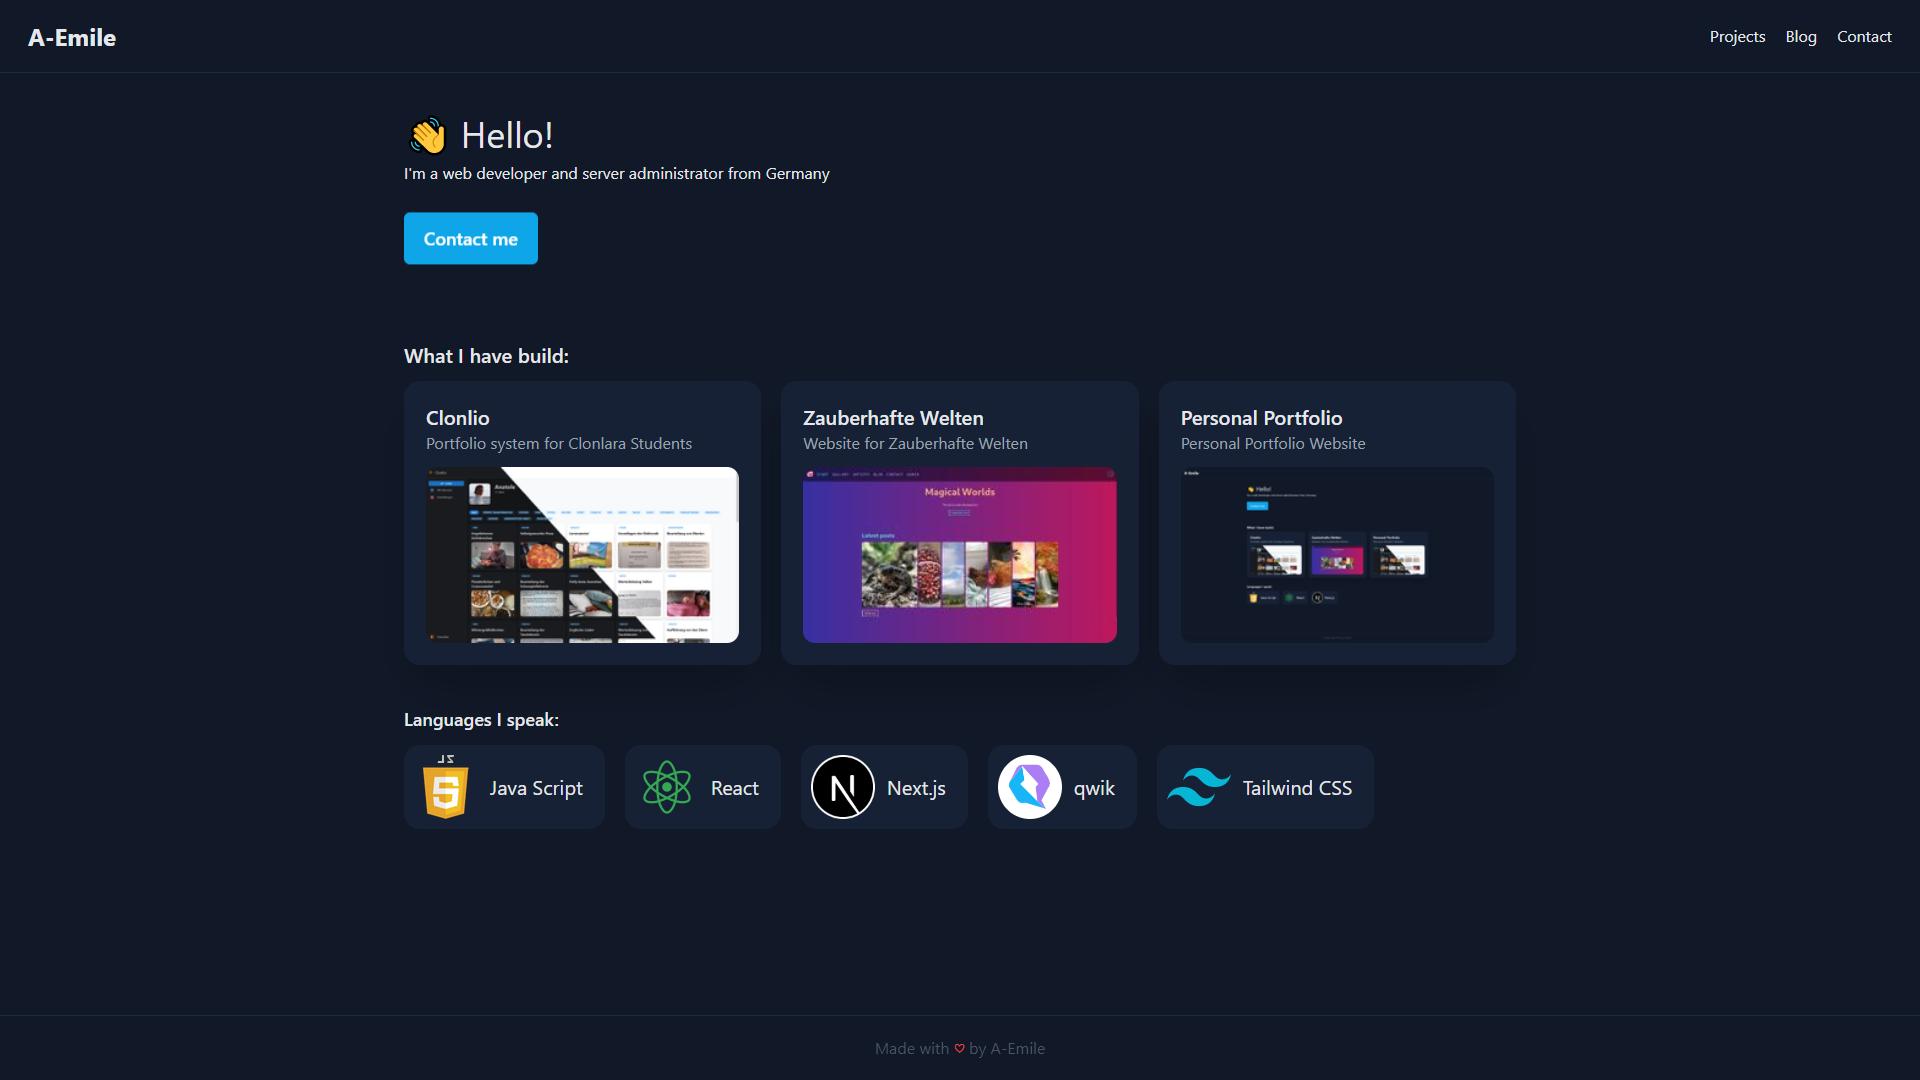
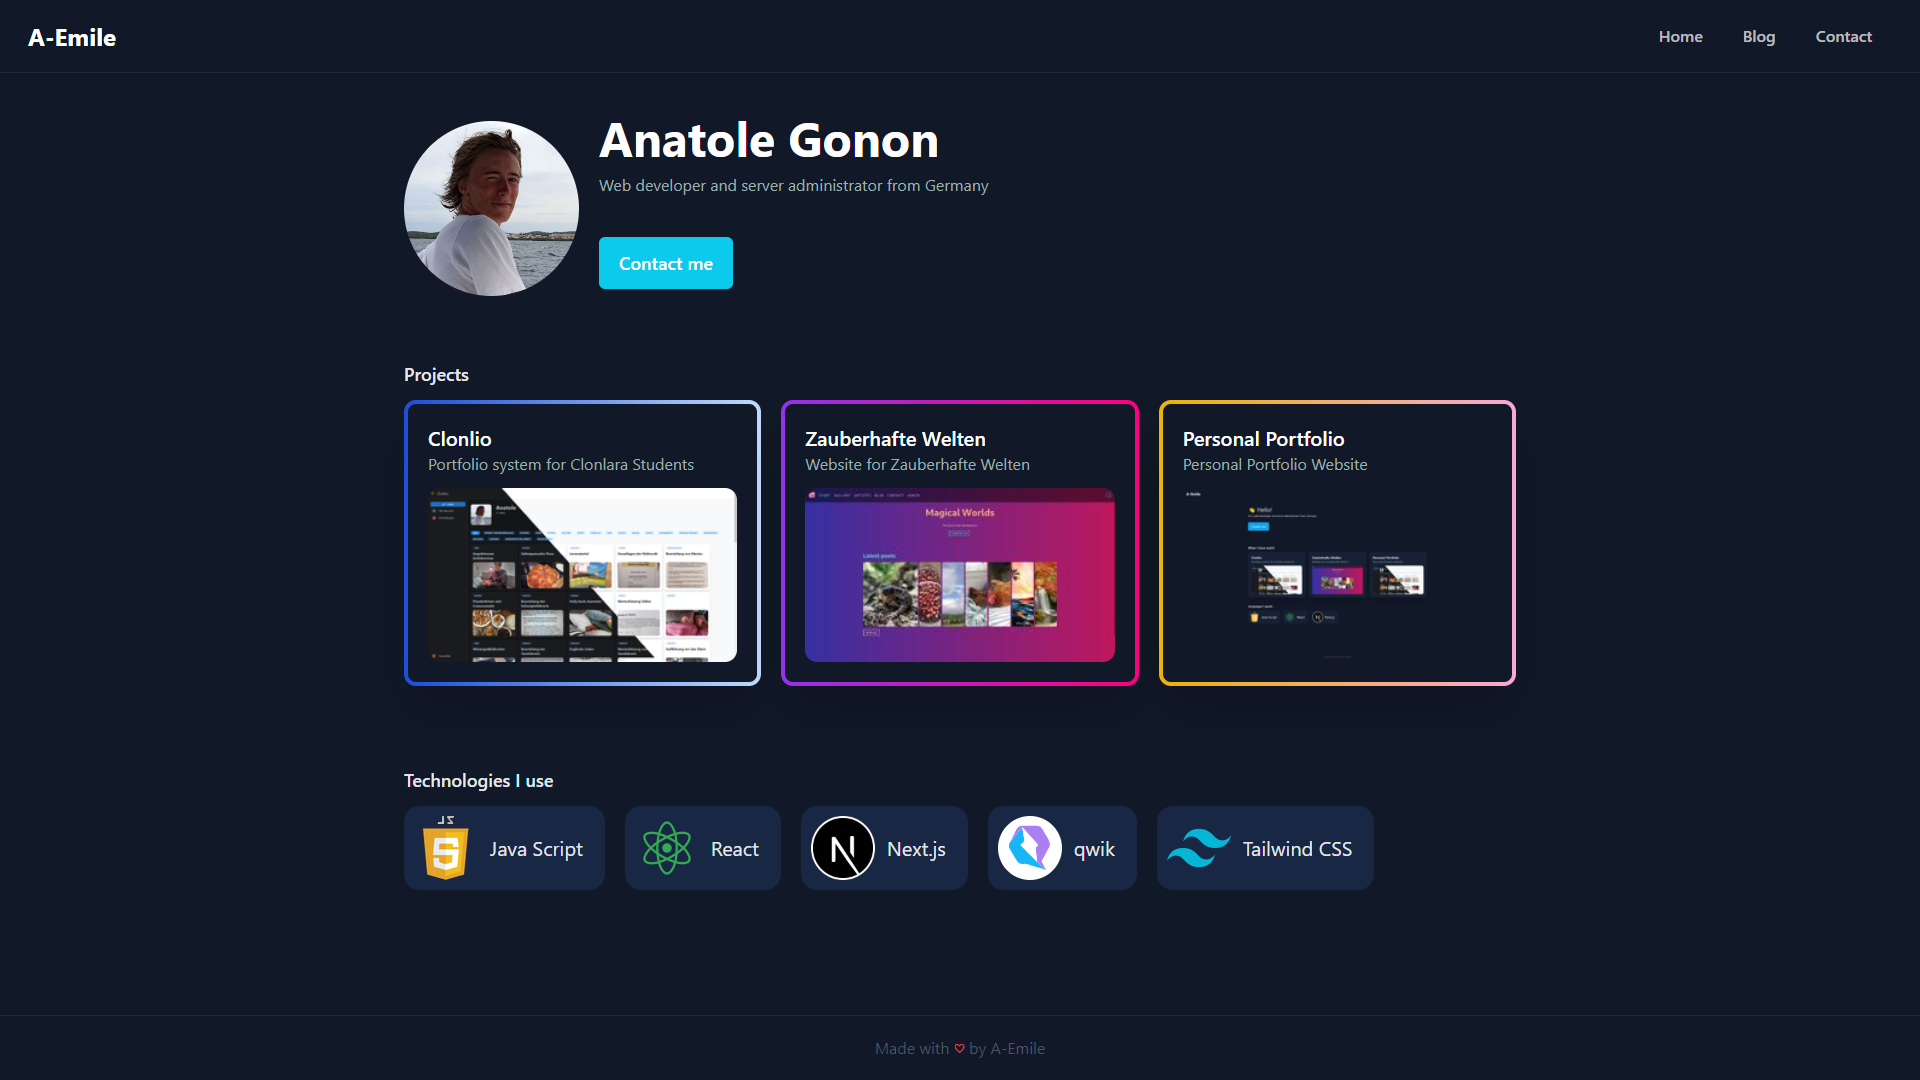
Improved accessibility

diff --git a/src/components/header/header.tsx b/src/components/header/header.tsx
@@ -6,7 +6,7 @@ export default component$(() => {
   })
   return (
     <header>
-      <nav className='p-5 border-b items-center px-7 border-gray-800 flex'>
+      <nav className='p-5 border-b items-center px-7 border-back2 flex max-w-6xl m-auto'>
         <a href='/'><h1 className='font-bold text-2xl'>A-Emile</h1></a>
         <div className='flex-grow justify-start' />
         <button className={`z-20 sm:hidden flex flex-col gap-2 relative`} onClick$={() => store.menu = !store.menu}>
@@ -14,9 +14,9 @@ export default component$(() => {
           <div className={`w-6 h-0.5 transition-transform bg-gray-300 ${store.menu && `-rotate-45 -translate-y-[0.325rem]`}`} />
         </button>
         <div className={`nav-link flex transition-all -top-80 ${store.menu && "-top-0"} sm:-translate-y-0 bg-back2 flex-col sm:flex-row px-5 sm:px-0 gap-3 justify-center items-center h-screen absolute bg-scroll sm:bg-transparent z-10 sm:h-full right-0 left-0 sm:static ${!store.menu && "hidden sm:block"}`}>
-          <a className='hover:bg-opacity-5 py-2 bg-opacity-5 bg-white sm:bg-transparent transition-colors sm:mt-0 mt-20 w-full sm:w-auto text-center rounded-lg p-1 text-2xl sm:text-base font-semibold hover:bg-white px-5' href='/'>Home</a>
-          <a className='hover:bg-opacity-5 py-2 bg-opacity-5 bg-white sm:bg-transparent transition-colors w-full sm:w-auto text-center rounded-lg p-1 text-2xl sm:text-base font-semibold hover:bg-white px-5' href='/blog'>Blog</a>
-          <a className='hover:bg-opacity-5 py-2 bg-opacity-5 bg-white sm:bg-transparent transition-colors w-full sm:w-auto text-center rounded-lg p-1 text-2xl sm:text-base font-semibold hover:bg-white px-5' href='/contact'>Contact</a>
+          <a className='hover:bg-opacity-5 hover:shadow py-2 bg-opacity-5 bg-sky-300 sm:bg-transparent transition-colors sm:mt-0 mt-20 w-full sm:w-auto text-center rounded-lg p-1 text-2xl sm:text-base font-semibold hover:bg-sky-300 px-5' href='/'>Home</a>
+          <a className='hover:bg-opacity-5 hover:shadow py-2 bg-opacity-5 bg-sky-300 sm:bg-transparent transition-colors w-full sm:w-auto text-center rounded-lg p-1 text-2xl sm:text-base font-semibold hover:bg-sky-300 px-5' href='/blog'>Blog</a>
+          <a className='hover:bg-opacity-5 hover:shadow py-2 bg-opacity-5 bg-sky-300 sm:bg-transparent transition-colors w-full sm:w-auto text-center rounded-lg p-1 text-2xl sm:text-base font-semibold hover:bg-sky-300 px-5' href='/contact'>Contact</a>
         </div>
       </nav>
     </header>

diff --git a/src/routes/contact/index.tsx b/src/routes/contact/index.tsx
@@ -43,8 +43,8 @@ export default component$(() => {
 
     });
     return (
-        <>
-            <div onSubmit$={(e) => console.log(e)} className={`max-w-6xl pt-10 rounded-xl sm:mx-auto mx-5 flex flex-col gap-5 bg-back2 mt-10 p-5 m-auto animate__animated animate__fadeIn`}>
+        <div className="sm:px-3">
+            <div onSubmit$={(e) => console.log(e)} className={`max-w-6xl pt-10 rounded-xl mx-auto flex flex-col gap-5 sm:bg-back2 mt-10 p-5 m-auto animate__animated animate__fadeIn`}>
                 {state.success &&
                     <div className={`bg-green-500 -mt-5 bg-opacity-50 rounded p-5 text-lg items-center animate__animated flex animate__backInDown`}>
                         <p className="flex-grow">Message was send successfully</p>
@@ -54,11 +54,11 @@ export default component$(() => {
                 {!state.success &&
                     <>
                         <h1 className="text-3xl">💬 Contact</h1>
-                        <p className="text-gray-300">If you have any questions, feel free to send me message.</p>
+                        <p>If you have any questions, feel free to send me message.</p>
                         {state.error.length ? (
                             <div className="text-red-500">{state.error}</div>
                         ) : ""}
-                        <div className="w-full flex flex-col gap-5 max-w-sm">
+                        <div className="w-full flex flex-col gap-5 sm:max-w-sm">
                             <input onInput$={(event) => (state.name = (event.target as HTMLInputElement).value)} type="text" placeholder="Name" class="bg-transparent border-2 border-primary border-opacity-50 rounded" />
                             <input onInput$={(event) => (state.email = (event.target as HTMLInputElement).value)} type="email" placeholder="Email" class="bg-transparent border-2 border-primary border-opacity-50 rounded" />
                         </div>
@@ -66,7 +66,7 @@ export default component$(() => {
                         <Button onClick$={() => state.submit = true} text="Send" />
                     </>}
             </div>
-        </>
+        </div>
     )
 })
 

diff --git a/src/routes/index.tsx b/src/routes/index.tsx
@@ -8,7 +8,7 @@ export default component$(() => {
     <div className={`pt-10 max-w-6xl p-5 m-auto`}>
       <div className='mb-16 flex sm:flex-row flex-col gap-5'>
       <div>
-          <img width={175} className={"overflow-hidden rounded-full sm:w-[175px] w-20 mt-2"} src='/A-Emile.jpg'/>
+          <img alt='image of Anatole' width={175} height={175} className={"overflow-hidden rounded-full sm:w-[175px] w-20 mt-2"} src='/A-Emile.webp'/>
         </div>
         <div>
           <h1 className='sm:text-5xl text-3xl sm:mb-3 font-bold'>Anatole Gonon</h1>
@@ -19,7 +19,7 @@ export default component$(() => {
         </div>
       </div>
       <ProjectList />
-      <h3 className='text-lg mt-20 font-semibold mb-3'>Technologies I use</h3>
+      <h1 className='text-lg mt-20 font-semibold mb-3'>Technologies I use</h1>
       <div className='flex gap-5 w-full justify-start flex-wrap mb-5 animate__animated animate__fadeIn'>
         <BrandCard href='https://www.javascript.com/' name='Java Script' src='/icons/javascript.png' />
         <BrandCard href='https://reactjs.org/' name='React' src='/icons/react.png' />

diff --git a/src/components/blog/BlogCard.tsx b/src/components/blog/BlogCard.tsx
@@ -10,8 +10,8 @@ interface BlogCardProps {
 export const BlogCard = component$(({ ...props }: BlogCardProps) => (
     <li>
         <a href={props.href}>
-            <div className="flex bg-back2 p-2 gap-3 sm:gap-5 rounded-2xl hover:border-sky-900 overflow-hidden border-2 border-transparent">
-                <img width={240} height={160} className="sm:h-40 flex-none sm:w-60 h-20 w-32 object-cover rounded-xl" src={props.img} />
+            <div className="flex bg-back2 p-2 gap-3 sm:gap-5 rounded-2xl hover:border-primary overflow-hidden border-2 border-transparent">
+                <img alt="blog cover image" width={240} height={160} className="sm:h-40 flex-none sm:w-60 h-20 w-32 object-cover rounded-xl" src={props.img} />
                 <div>
                     <h1 className="text-md line-clamp-1 font-semibold sm:text-xl">{props.title}</h1>
                     <p className="line-clamp-2 sm:line-clamp-3 text-gray-400 text-sm sm:text-base ">{props.desc}</p>

diff --git a/src/components/Projects/ProjectList.tsx b/src/components/Projects/ProjectList.tsx
@@ -4,7 +4,7 @@ import { ProjectCard } from "./ProjectCard"
 export default component$(() => {
     return (
         <>
-            <h2 className="text-lg font-semibold mb-3">Projects</h2>
+            <h1 className="text-lg font-semibold mb-3">Projects</h1>
             <div className="grid grid-cols-1 sm:grid-cols-2 md:grid-cols-3 gap-5 animate__animated animate__fadeIn">
                 <ProjectCard gradient="from-blue-700 to-blue-200" href="/projects/clonlio" img="/projects/clonlio/preview.png" title={"Clonlio"} desc="Portfolio system for Clonlara Students" />
                 <ProjectCard gradient="from-purple-600 to-[#ff0080]" href="/projects/zauberhafte-welten" img="/projects/zw/preview.jpg" title={"Zauberhafte Welten"} desc="Website for Zauberhafte Welten" />

diff --git a/src/components/icons/BrandCard.tsx b/src/components/icons/BrandCard.tsx
@@ -11,7 +11,7 @@ interface BrandCardProps {
 export const BrandCard = component$(({ size = 64, ...props }: BrandCardProps) => (
     <Link target={"_blank"} href={props.href}>
         <div className="flex items-center bg-back2 p-2 text-xl gap-3 rounded-2xl hover:border-primary transition-colors border-2 border-transparent pr-5">
-            <img width={size} height={size} className="inline-block" src={props.src} />
+            <img alt={`logo of ${props.name}`} width={size} height={size} className="inline-block" src={props.src} />
             {props.name}
         </div>
     </Link>

diff --git a/src/components/footer/footer.tsx b/src/components/footer/footer.tsx
@@ -3,7 +3,7 @@ import { component$ } from '@builder.io/qwik';
 export default component$(() => {
 
   return (
-    <footer className='border-gray-800 border-t text-gray-600 flex justify-center items-center p-5'>
+    <footer className='border-back2 border-t text-gray-500 flex justify-center items-center p-5'>
       <div>
         <a href="https://github.com/A-Emile" target="_blank">
           Made with <font className='text-red-500'>♡</font> by A-Emile

diff --git a/src/components/router-head/router-head.tsx b/src/components/router-head/router-head.tsx
@@ -24,6 +24,7 @@ export const RouterHead = component$(() => {
       <meta property="og:type" content="website" />
       <meta property="og:image" content="/og.svg" />
       <meta property="og:url" content="https://a-emile.dedyn.io" />
+      <meta name="description" content="Portfolio from Anatole Gonon" />
 
       {head.meta.map((m) => (
         <meta {...m} />

diff --git a/src/routes/layout.tsx b/src/routes/layout.tsx
@@ -5,7 +5,7 @@ import Header from '../components/header/header';
 export default component$(() => {
   return (
     <>
-      <div className='flex flex-col min-h-screen text-gray-200 bg-gray-900'>
+      <div className='flex flex-col min-h-screen bg-back1'>
         <Header />
         <main className='flex-grow'>
           <Slot />

diff --git a/src/config/theme.css b/src/config/theme.css
@@ -1,8 +1,9 @@
 :root {
-    --primary-color: rgb(11, 202, 236);
+    --primary-color: rgb(0, 217, 255);
     --bg-color: #111827;
     --bg-color-secondary: #182744;
     --text-color: rgb(156, 175, 171);
+    --color: rgb(221, 221, 221);
     --header-color: white;
     --nav-link-color: rgba(255, 255, 255, 0.7);
 }

diff --git a/src/config/theme-light.css b/src/config/theme-light.css
@@ -1,0 +1,9 @@
+:root {
+    --primary-color: rgb(11, 202, 236);
+    --bg-color: white;
+    --bg-color-secondary: #dde9ff;
+    --text-color: rgb(156, 175, 171);
+    --color: rgb(61, 61, 61);
+    --header-color: rgb(63, 63, 63);
+    --nav-link-color: rgba(0, 0, 0, 0.7);
+}

diff --git a/src/global.css b/src/global.css
@@ -23,7 +23,7 @@
     background: #3e4a5f;
 }
 
-h1 {
+h1, h2, h3, h4, h5, h6 {
     color: var(--header-color);
 }
 
@@ -37,6 +37,7 @@ p {
 
 main {
     animation: fadein 0.5s;
+    color: var(--color);
 }
 
 @keyframes fadein {
